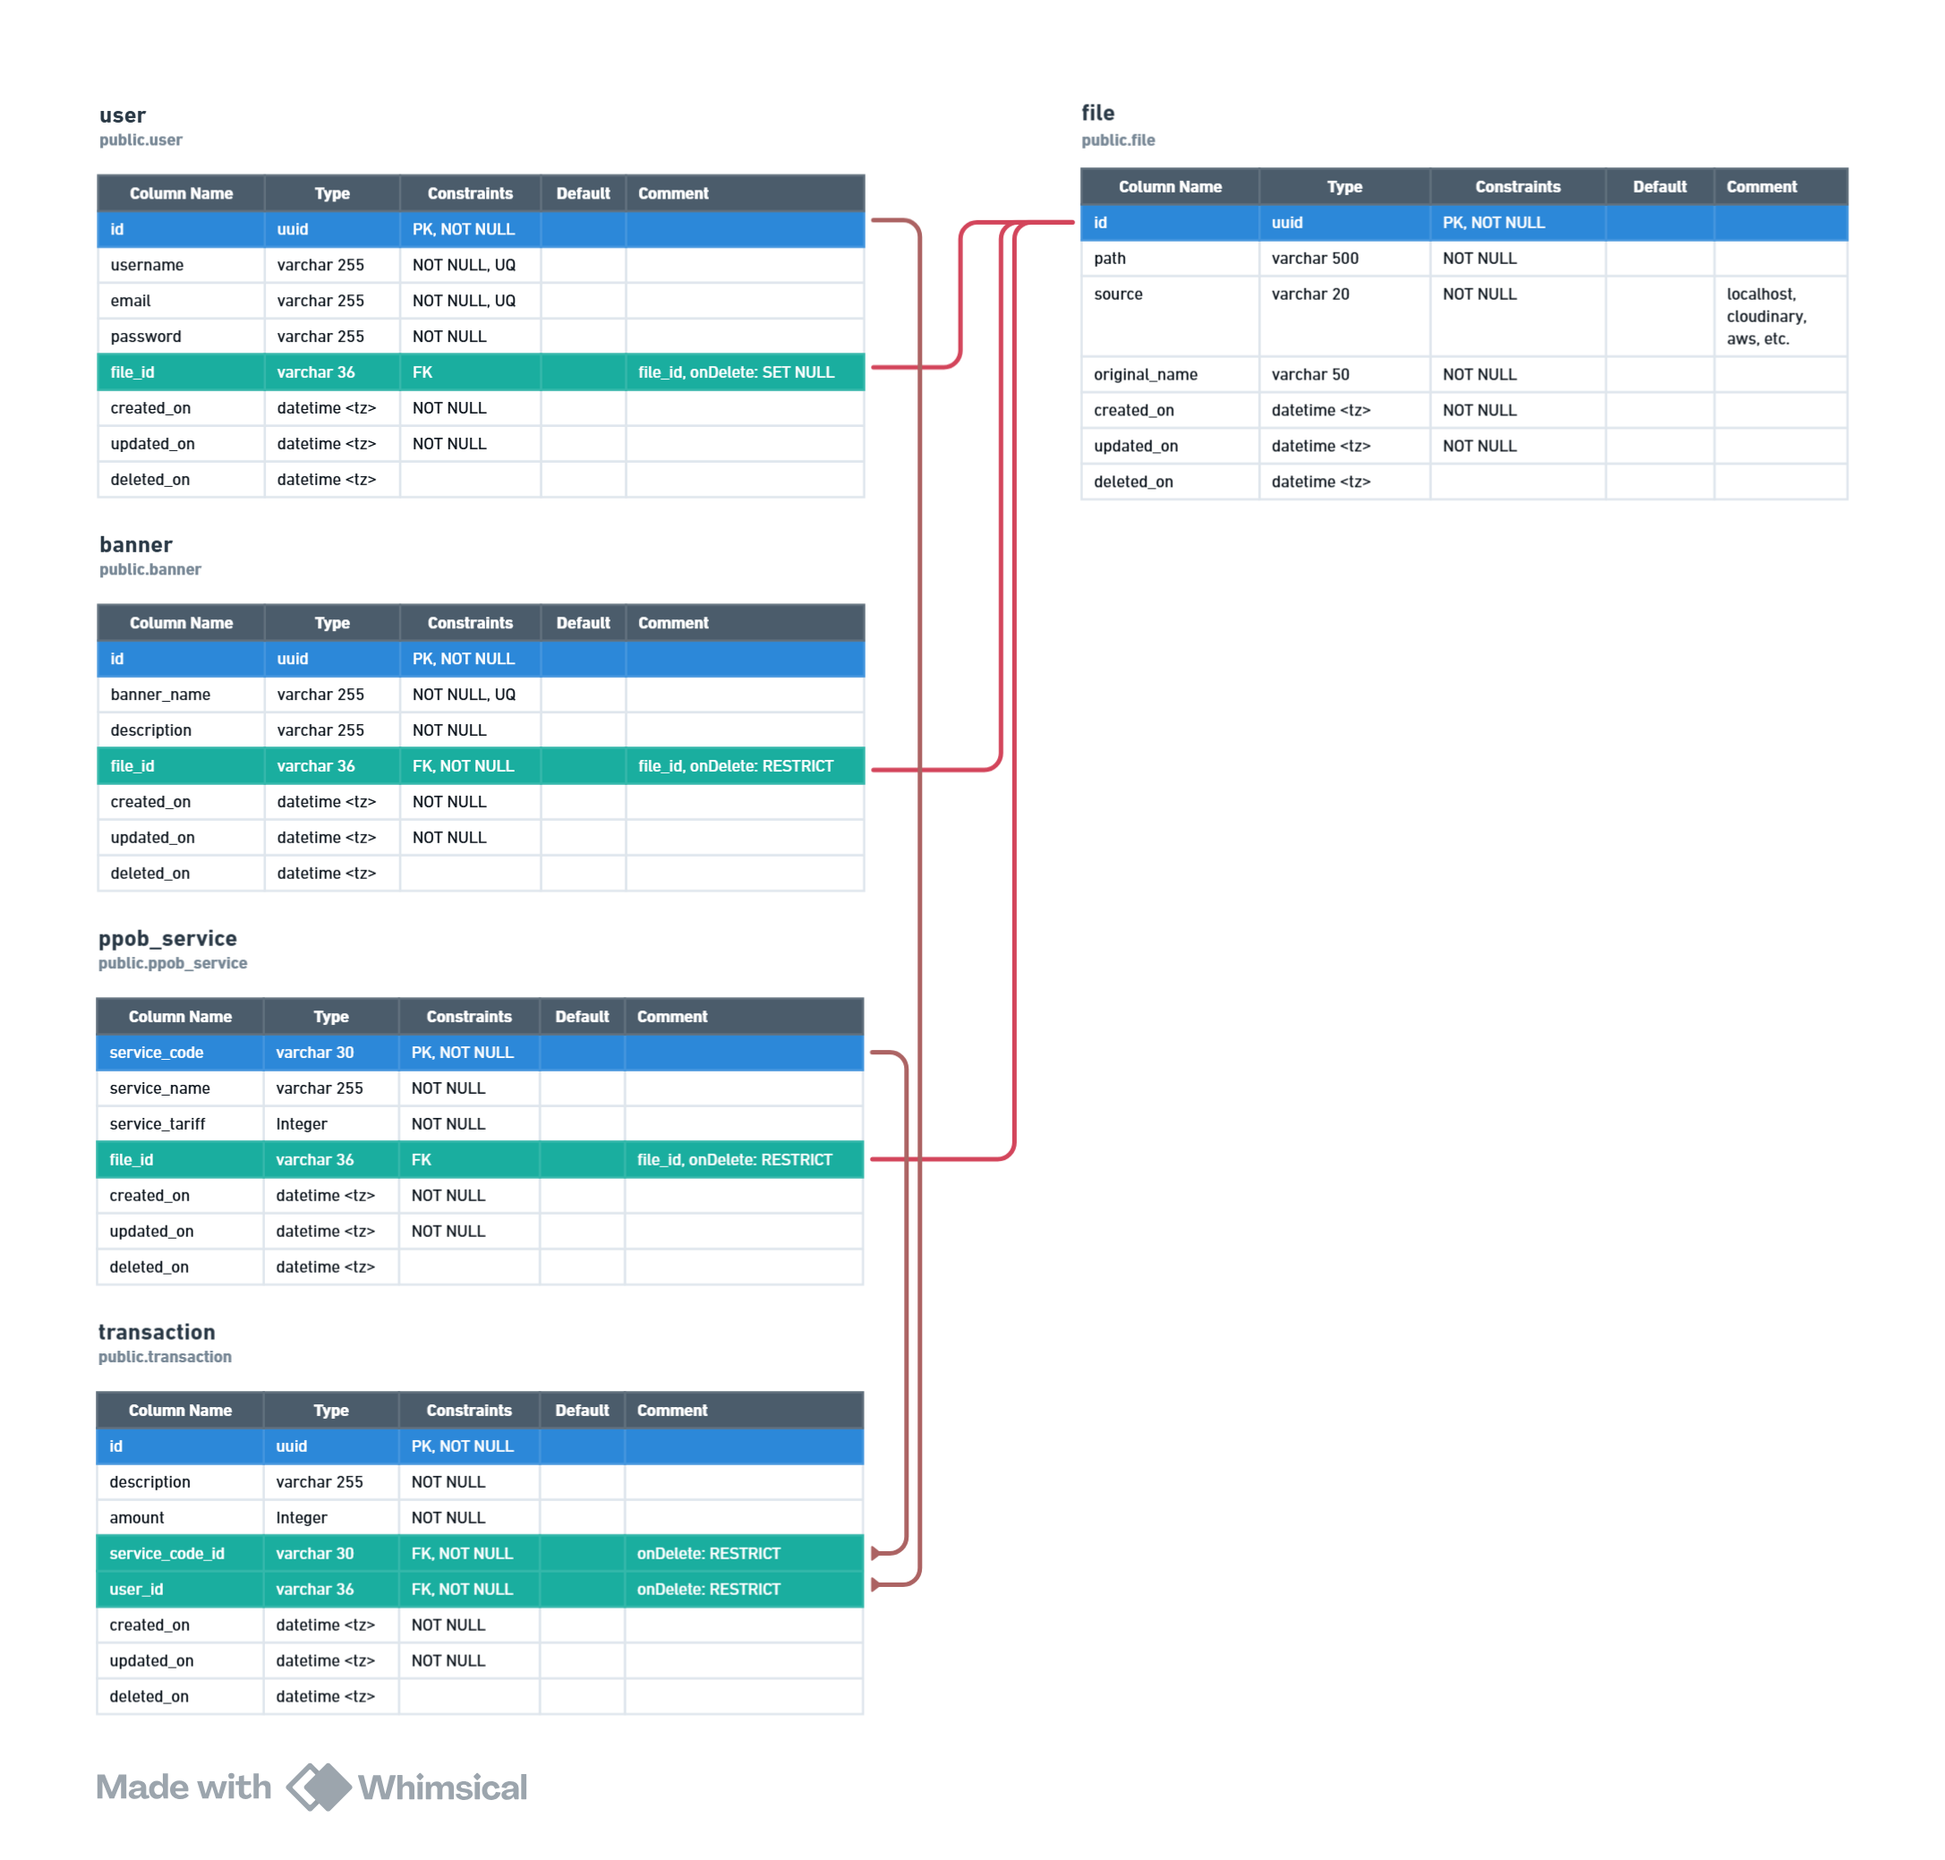
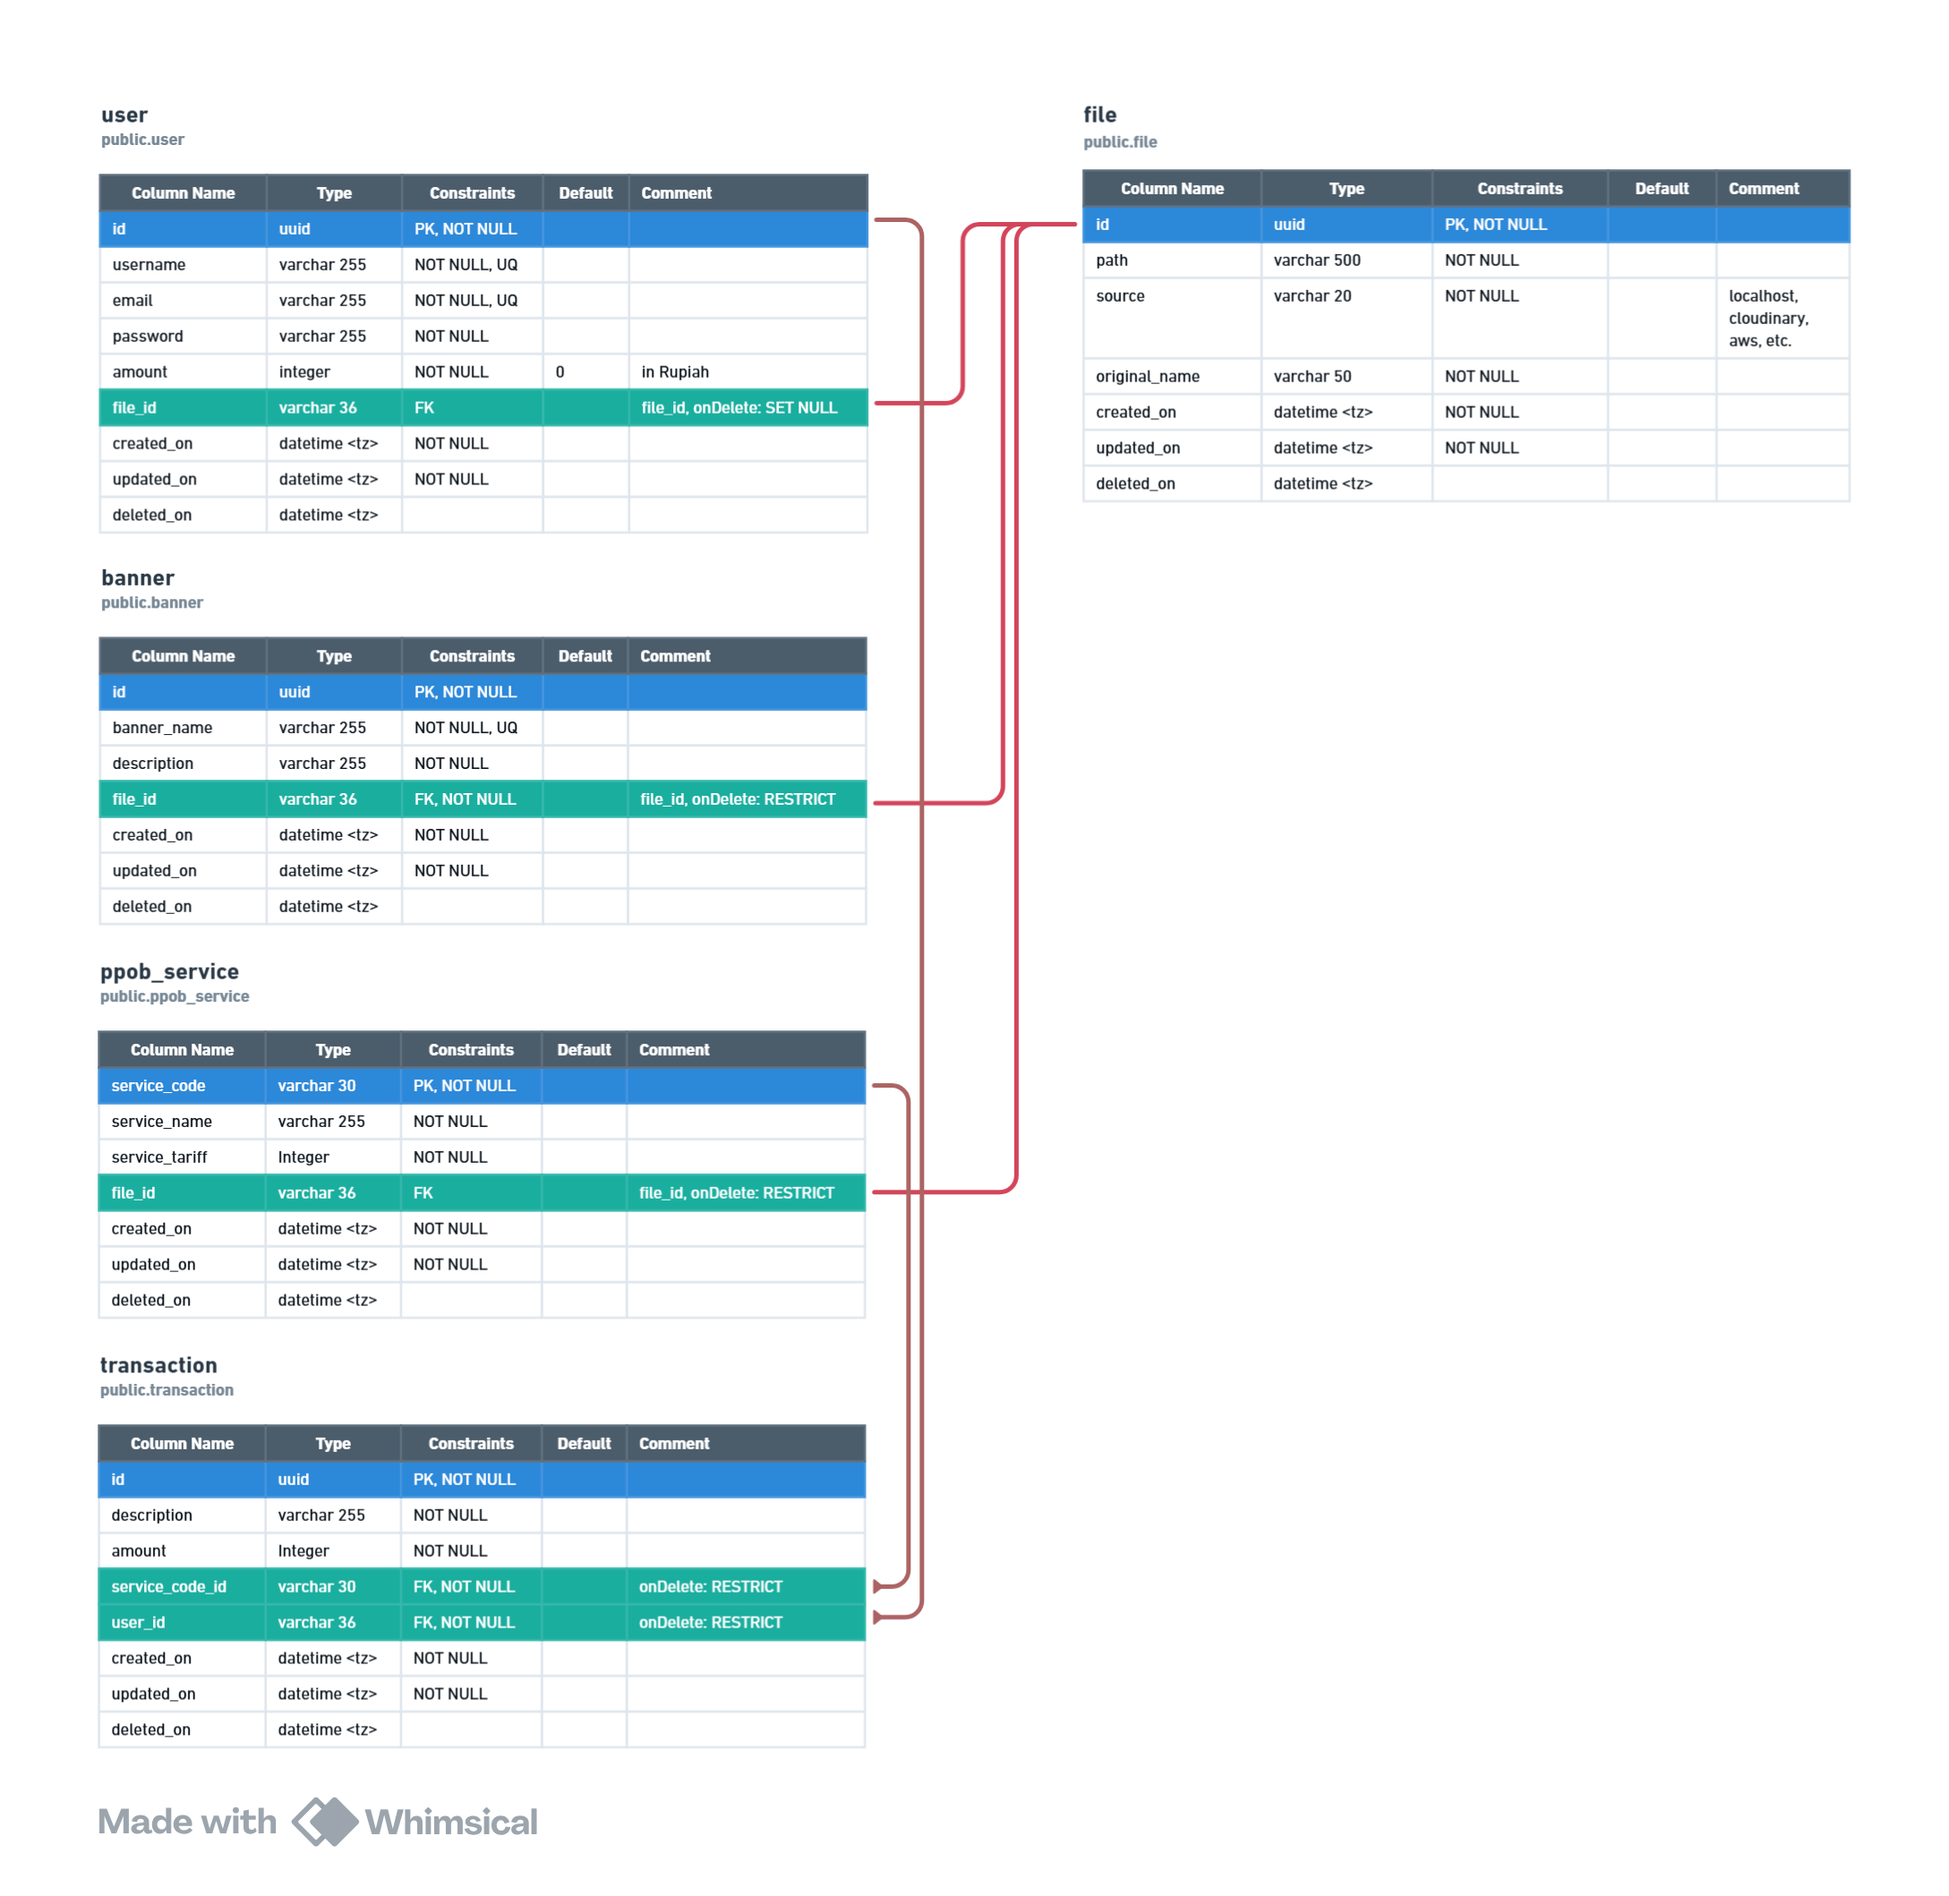
add more validator and update translation

diff --git a/src/modules/i18n/translations.generated.ts b/src/modules/i18n/translations.generated.ts
@@ -10,7 +10,7 @@ export enum Namespace {
   Translation = 'translation'
 }
 
-export type TranslationKeys = 'response.ok' | 'response.created' | 'response.unauthorized' | 'response.badrequest' | 'response.forbidden_role' | 'response.forbidden' | 'response.not_found' | 'response.not_allowed_role' | 'response.conflict' | 'response.internal_server_error' | 'class_validator.is_UUID' | 'class_validator.is_not_empty' | 'class_validator.is_email' | 'class_validator.too_short' | 'class_validator.too_long' | 'class_validator.matches' | 'class_validator.is_number' | 'class_validator.is_decimal' | 'class_validator.is_boolean' | 'class_validator.is_optional' | 'class_validator.is_enum' | 'class_validator.is_positive' | 'class_validator.is_negative' | 'class_validator.is_date' | 'class_validator.no_symbol_string' | 'class_validator.no_space_string' | 'class_validator.strong_password' | 'class_validator.is_non_primitive_array' | 'class_validator.is_array' | 'class_validator.min_length' | 'class_validator.length' | 'class_validator.min' | 'class_validator.max' | 'general.error.already_exists' | 'general.error.not_found' | 'general.error.accpet_specific_extension' | 'general.error.invalid' | 'general.error.upload_failed' | 'general.error.process_failed' | 'general.error.no_input_detected' | 'general.error.file_too_large' | 'general.error.duplicate_detected' | 'general.error.invalid_credential' | 'general.info.created' | 'general.info.updated' | 'general.info.deleted' | 'general.info.recovered' | 'general.info.upload_success' | 'general.info.success' | 'property.auth.auth_token' | 'property.auth.refresh_token' | 'property.user.id' | 'property.user.user' | 'property.user.username' | 'property.user.password' | 'property.user.full_name' | 'property.user.first_name' | 'property.user.last_name' | 'property.user.email' | 'property.user.role' | 'property.user.profile_picture' | 'property.user.status' | 'property.user.description' | 'property.user.credential' | 'property.upload.id' | 'property.upload.file_path' | 'property.upload.description';
+export type TranslationKeys = 'response.ok' | 'response.created' | 'response.unauthorized' | 'response.badrequest' | 'response.forbidden_role' | 'response.forbidden' | 'response.not_found' | 'response.not_allowed_role' | 'response.conflict' | 'response.internal_server_error' | 'class_validator.is_UUID' | 'class_validator.is_not_empty' | 'class_validator.is_email' | 'class_validator.too_short' | 'class_validator.too_long' | 'class_validator.matches' | 'class_validator.is_number' | 'class_validator.is_decimal' | 'class_validator.is_boolean' | 'class_validator.is_optional' | 'class_validator.is_enum' | 'class_validator.is_positive' | 'class_validator.is_negative' | 'class_validator.is_date' | 'class_validator.no_symbol_string' | 'class_validator.no_space_string' | 'class_validator.strong_password' | 'class_validator.is_non_primitive_array' | 'class_validator.is_array' | 'class_validator.min_length' | 'class_validator.length' | 'class_validator.min' | 'class_validator.max' | 'general.error.already_exists' | 'general.error.not_found' | 'general.error.accpet_specific_extension' | 'general.error.invalid' | 'general.error.upload_failed' | 'general.error.process_failed' | 'general.error.no_input_detected' | 'general.error.file_too_large' | 'general.error.duplicate_detected' | 'general.error.invalid_credential' | 'general.info.created' | 'general.info.updated' | 'general.info.deleted' | 'general.info.recovered' | 'general.info.upload_success' | 'general.info.success' | 'property.pagination.offset' | 'property.pagination.limit' | 'property.auth.auth_token' | 'property.auth.refresh_token' | 'property.user.id' | 'property.user.user' | 'property.user.username' | 'property.user.password' | 'property.user.full_name' | 'property.user.first_name' | 'property.user.last_name' | 'property.user.email' | 'property.user.role' | 'property.user.profile_picture' | 'property.user.status' | 'property.user.description' | 'property.user.credential' | 'property.user.amount' | 'property.upload.id' | 'property.upload.file_path' | 'property.upload.description' | 'property.transaction.transaction' | 'property.transaction.service_code' | 'property.transaction.top_up_amount' | 'module.transaction.not_enough_balance';
 
 export type TranslationKey = TranslationKeys;
 

diff --git a/src/router/v1/transaction/validator/trxHistory.validator.ts b/src/router/v1/transaction/validator/trxHistory.validator.ts
@@ -1,0 +1,75 @@
+import { z } from "zod";
+import { extractZodError, t } from "../../../../utils";
+import { NextFunction, Request, Response } from "express";
+import { responses } from "../../../../utils/responses.util";
+
+export type QueryHistoryPaginationType = {
+  limit: number;
+  offset: number;
+};
+
+export function validateQuery_HistoryPagination(
+  req: Request,
+  res: Response,
+  next: NextFunction
+): any {
+  const zodQueryHistoryPagination = z.object({
+    limit: z
+      .number({
+        message: t(
+          "class_validator.is_not_empty",
+          {
+            property: t("property.pagination.limit", null, req),
+          },
+          req
+        ),
+      })
+      .min(1, {
+        message: t(
+          "class_validator.is_not_empty",
+          {
+            property: t("property.pagination.limit", null, req),
+          },
+          req
+        ),
+      })
+      .max(100, {
+        message: t(
+          "class_validator.max",
+          {
+            property: t("property.pagination.limit", null, req),
+            max: 100,
+          },
+          req
+        ),
+      }),
+    offset: z
+      .number({
+        message: t(
+          "class_validator.is_not_empty",
+          {
+            property: t("property.pagination.offset", null, req),
+          },
+          req
+        ),
+      })
+      .min(0, {
+        message: t(
+          "class_validator.is_not_empty",
+          {
+            property: t("property.pagination.offset", null, req),
+          },
+          req
+        ),
+      }),
+  });
+
+  const verifyZod = zodQueryHistoryPagination.safeParse(req.query);
+
+  if (!verifyZod.success) {
+    const translatedErrors = extractZodError(verifyZod.error);
+    return responses.res400(req, res, null, translatedErrors);
+  }
+
+  next();
+}

diff --git a/src/router/v1/transaction/validator/topup.validator.ts b/src/router/v1/transaction/validator/topup.validator.ts
@@ -1,0 +1,61 @@
+import { z } from "zod";
+import { extractZodError, t } from "../../../../utils";
+import { NextFunction, Request, Response } from "express";
+import { responses } from "../../../../utils/responses.util";
+
+export type BodyTopUpType = {
+  top_up_amount: number;
+};
+
+const numToIdr = Intl.NumberFormat("id-ID", {
+  style: "currency",
+  currency: "IDR",
+});
+
+export function validateInput_TopUp(
+  req: Request,
+  res: Response,
+  next: NextFunction
+): any {
+  const zodBodyTopUp = z.object({
+    top_up_amount: z
+      .number({
+        message: t(
+          "class_validator.is_not_empty",
+          {
+            property: t("property.transaction.top_up_amount", null, req),
+          },
+          req
+        ),
+      })
+      .min(1000, {
+        message: t(
+          "class_validator.min",
+          {
+            property: t("property.transaction.top_up_amount", null, req),
+            min: numToIdr.format(1000),
+          },
+          req
+        ),
+      })
+      .max(10000000, {
+        message: t(
+          "class_validator.max",
+          {
+            property: t("property.transaction.top_up_amount", null, req),
+            min: numToIdr.format(10000000),
+          },
+          req
+        ),
+      }),
+  });
+
+  const verifyZod = zodBodyTopUp.safeParse(req.body);
+
+  if (!verifyZod.success) {
+    const translatedErrors = extractZodError(verifyZod.error);
+    return responses.res400(req, res, null, translatedErrors);
+  }
+
+  next();
+}

diff --git a/src/router/v1/transaction/validator/trxPurchase.validator.ts b/src/router/v1/transaction/validator/trxPurchase.validator.ts
@@ -1,0 +1,45 @@
+import { z } from "zod";
+import { extractZodError, t } from "../../../../utils";
+import { NextFunction, Request, Response } from "express";
+import { responses } from "../../../../utils/responses.util";
+
+export type BodyPurchaseType = {
+  service_code: string;
+};
+
+export function validateInput_Purchase(
+  req: Request,
+  res: Response,
+  next: NextFunction
+): any {
+  const zodBodyPurchase = z.object({
+    service_code: z
+      .string({
+        message: t(
+          "class_validator.is_not_empty",
+          {
+            property: t("property.transaction.service_code", null, req),
+          },
+          req
+        ),
+      })
+      .min(1, {
+        message: t(
+          "class_validator.is_not_empty",
+          {
+            property: t("property.transaction.service_code", null, req),
+          },
+          req
+        ),
+      }),
+  });
+
+  const verifyZod = zodBodyPurchase.safeParse(req.body);
+
+  if (!verifyZod.success) {
+    const translatedErrors = extractZodError(verifyZod.error);
+    return responses.res400(req, res, null, translatedErrors);
+  }
+
+  next();
+}

diff --git a/src/app.ts b/src/app.ts
@@ -8,7 +8,7 @@ import bodyParser from "body-parser";
 import { responses } from "./utils/responses.util";
 import { dataSource } from "./modules/db/datasource";
 import { SeederEntity } from "./modules/db/entities/seeder.entity";
-import { validateInput_Register } from "./router/v1/user/validator/register.validator";
+import { validateInput_Register } from "./router/v1/membership/validator/register.validator";
 import { multerStorageCfg } from "./modules/file/multer.config";
 import multer from "multer";
 
